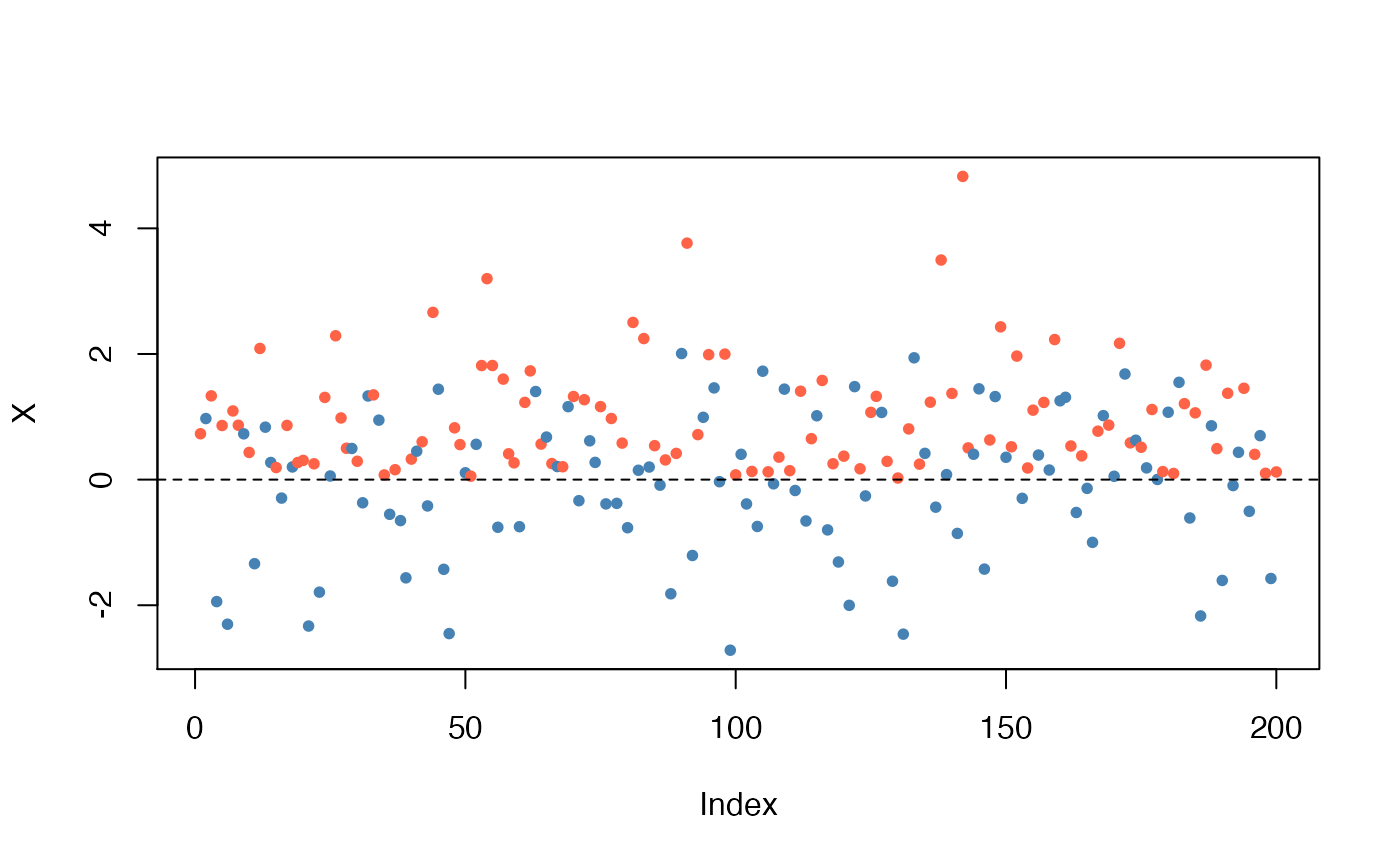
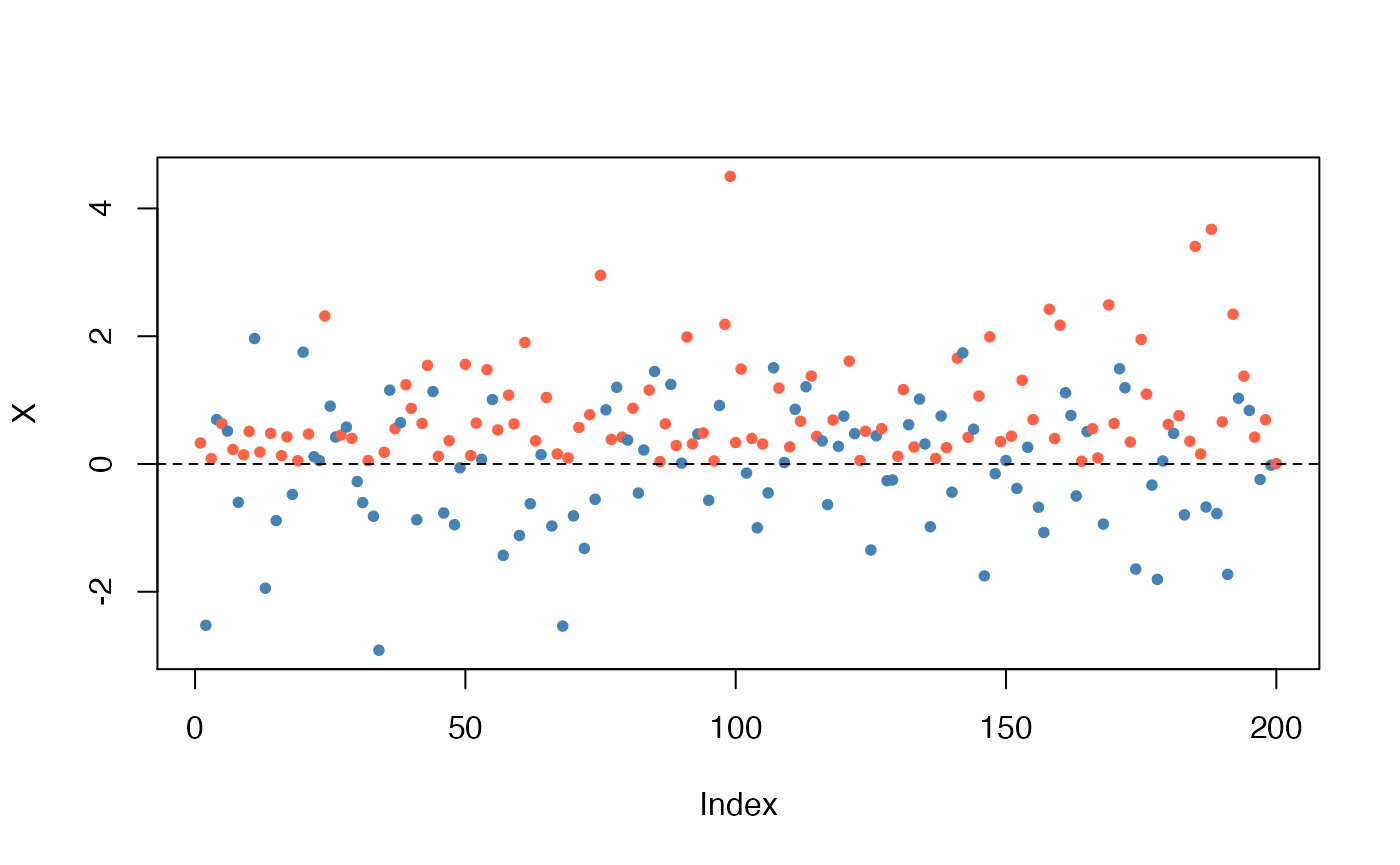
Page changes

diff --git a/docs/reference/residuals.hmm.html b/docs/reference/residuals.hmm.html
@@ -397,7 +397,7 @@ Otherwise, the empirical mean will be used as the expected value.</p>
 <span class="r-out co"><span class="r-pr">#&gt;</span> </span>
 <span class="r-out co"><span class="r-pr">#&gt;</span> smlt.h&gt; summary(X.normal)</span>
 <span class="r-out co"><span class="r-pr">#&gt;</span>    Min. 1st Qu.  Median    Mean 3rd Qu.    Max. </span>
-<span class="r-out co"><span class="r-pr">#&gt;</span> -0.9519  4.7495  5.9039  6.6190  9.7595 11.8071 </span>
+<span class="r-out co"><span class="r-pr">#&gt;</span>  -0.960   4.459   5.506   5.833   7.361  11.832 </span>
 <span class="r-out co"><span class="r-pr">#&gt;</span> </span>
 <span class="r-out co"><span class="r-pr">#&gt;</span> smlt.h&gt; plot(X.normal)</span>
 <span class="r-plt img"><img src="residuals.hmm-1.png" alt="" width="700" height="433"></span>
@@ -426,46 +426,46 @@ Otherwise, the empirical mean will be used as the expected value.</p>
 <span class="r-plt img"><img src="residuals.hmm-4.png" alt="" width="700" height="433"></span>
 <span class="r-in"><span class="va">hmm.mixture_X</span> <span class="op">&lt;-</span> <span class="fu"><a href="hmm.html">hmm</a></span><span class="op">(</span><span class="va">X.mixture</span>, Gamma<span class="op">=</span><span class="va">Gamma</span>, delta<span class="op">=</span><span class="va">delta</span>, lls<span class="op">=</span><span class="va">lls</span>, param_lls<span class="op">=</span><span class="va">param</span>, lls_mle<span class="op">=</span><span class="va">lls_mle</span>, rdist<span class="op">=</span><span class="va">rdist</span>, estimate<span class="op">=</span><span class="cn">FALSE</span><span class="op">)</span></span>
 <span class="r-in"><span class="fu"><a href="https://rdrr.io/r/stats/residuals.html" class="external-link">residuals</a></span><span class="op">(</span><span class="va">hmm.mixture_X</span><span class="op">)</span></span>
-<span class="r-out co"><span class="r-pr">#&gt;</span>   [1] -0.586303625  1.381892321 -0.528362566  0.954120027 -0.715706462</span>
-<span class="r-out co"><span class="r-pr">#&gt;</span>   [6]  0.630666410 -0.578973671 -0.444553089  0.141069625  1.362584247</span>
-<span class="r-out co"><span class="r-pr">#&gt;</span>  [11] -0.642571466 -0.671934009  1.082284185 -0.171946079  2.053574187</span>
-<span class="r-out co"><span class="r-pr">#&gt;</span>  [16] -0.857600618 -0.539693460  0.434041016  1.689633455  1.286270286</span>
-<span class="r-out co"><span class="r-pr">#&gt;</span>  [21] -0.802377633  0.817599375 -0.725297112 -0.366758601 -0.870331307</span>
-<span class="r-out co"><span class="r-pr">#&gt;</span>  [26] -1.712884929  0.839822133  0.596451322  0.748774835 -0.501871368</span>
-<span class="r-out co"><span class="r-pr">#&gt;</span>  [31] -0.845813550 -0.242876982  1.490329112 -2.363251361 -0.751689900</span>
-<span class="r-out co"><span class="r-pr">#&gt;</span>  [36]  1.916305662 -0.755635815  1.875876602  1.549998793  1.249400492</span>
-<span class="r-out co"><span class="r-pr">#&gt;</span>  [41] -0.169712025  1.011168202 -0.869966382  0.166967663 -0.563832584</span>
-<span class="r-out co"><span class="r-pr">#&gt;</span>  [46] -1.539321844 -0.742304405 -0.201330092  0.474123808  0.370912209</span>
-<span class="r-out co"><span class="r-pr">#&gt;</span>  [51] -0.859672028  0.979398244  2.711056921 -0.611446072 -0.718935560</span>
-<span class="r-out co"><span class="r-pr">#&gt;</span>  [56] -0.773755590 -0.832788643  0.503607021 -0.525604245 -0.579735003</span>
-<span class="r-out co"><span class="r-pr">#&gt;</span>  [61]  0.039410795 -0.863086851 -2.027884964  0.632376247 -0.209044696</span>
-<span class="r-out co"><span class="r-pr">#&gt;</span>  [66]  0.013862137 -0.137546553 -0.290771978 -0.767945851 -0.420499709</span>
-<span class="r-out co"><span class="r-pr">#&gt;</span>  [71] -0.278219140 -0.434354890  0.271115074  0.844356130  0.121583955</span>
-<span class="r-out co"><span class="r-pr">#&gt;</span>  [76] -0.624831541  1.918369047 -0.795616224  0.740635769  0.186619659</span>
-<span class="r-out co"><span class="r-pr">#&gt;</span>  [81] -0.160876486 -0.184833351  0.915811449 -0.633950084  0.524099947</span>
-<span class="r-out co"><span class="r-pr">#&gt;</span>  [86]  0.398911125  0.740622412  1.952656278 -1.464180346  1.094756714</span>
-<span class="r-out co"><span class="r-pr">#&gt;</span>  [91] -0.391857097 -0.235776479  0.630821846  2.159926695  1.017357887</span>
-<span class="r-out co"><span class="r-pr">#&gt;</span>  [96] -0.541062032 -0.551912098  0.743071967 -0.438624985  0.893266993</span>
-<span class="r-out co"><span class="r-pr">#&gt;</span> [101] -0.233879509 -0.190718627 -0.556899049  0.778116099  0.637962610</span>
-<span class="r-out co"><span class="r-pr">#&gt;</span> [106] -1.611551517 -0.453141536  0.271173806  0.406979994  1.659466630</span>
-<span class="r-out co"><span class="r-pr">#&gt;</span> [111] -0.414077125 -1.088295173  0.086943957 -0.911961105 -0.882680932</span>
-<span class="r-out co"><span class="r-pr">#&gt;</span> [116] -0.657964405 -1.914911509 -0.261101035  0.500127508 -0.534308601</span>
-<span class="r-out co"><span class="r-pr">#&gt;</span> [121]  0.355742918  1.318284060 -0.136844019 -1.106795756  0.872067097</span>
-<span class="r-out co"><span class="r-pr">#&gt;</span> [126]  0.727031322  0.432256236 -0.330257718 -0.007555166  1.306753195</span>
-<span class="r-out co"><span class="r-pr">#&gt;</span> [131] -0.903071082 -0.632333162  0.420125031 -0.406437334 -0.534117199</span>
-<span class="r-out co"><span class="r-pr">#&gt;</span> [136]  0.293614346 -0.400467059  1.010666909 -0.204932540  0.977709328</span>
-<span class="r-out co"><span class="r-pr">#&gt;</span> [141] -0.334782904 -1.602896514  3.397210644 -0.194488916  1.705694718</span>
-<span class="r-out co"><span class="r-pr">#&gt;</span> [146]  0.803813975 -0.765633223 -0.876757460 -0.358716828 -0.570133251</span>
-<span class="r-out co"><span class="r-pr">#&gt;</span> [151]  1.624655757 -0.413947531 -1.308124884 -0.657383861 -0.087779253</span>
-<span class="r-out co"><span class="r-pr">#&gt;</span> [156] -0.858242454  0.547544554 -0.693572293 -0.670865830 -0.200181484</span>
-<span class="r-out co"><span class="r-pr">#&gt;</span> [161]  0.645032009  0.449585887 -0.577784597 -0.660911581  2.037027488</span>
-<span class="r-out co"><span class="r-pr">#&gt;</span> [166]  0.115676569  0.405218349 -0.309371432 -0.429168020 -0.201594048</span>
-<span class="r-out co"><span class="r-pr">#&gt;</span> [171]  0.069767913  0.654736854 -0.787684252 -0.577817542 -0.182020578</span>
-<span class="r-out co"><span class="r-pr">#&gt;</span> [176] -0.124957109  0.230161289  0.676108566 -0.597486484  1.630072382</span>
-<span class="r-out co"><span class="r-pr">#&gt;</span> [181] -0.216540666 -0.882250283 -0.753096203 -0.350625690 -2.739509075</span>
-<span class="r-out co"><span class="r-pr">#&gt;</span> [186]  0.570484278 -0.670718388 -0.791760110 -0.468064010  1.217869351</span>
-<span class="r-out co"><span class="r-pr">#&gt;</span> [191]  0.410165967 -0.441678755 -1.993703162  0.215726248  0.743205079</span>
-<span class="r-out co"><span class="r-pr">#&gt;</span> [196] -0.704197929  1.026243234  0.372500509 -0.659591840 -0.555029922</span>
+<span class="r-out co"><span class="r-pr">#&gt;</span>   [1]  0.239586903 -0.762135118  0.493699274 -0.878100852  0.472719382</span>
+<span class="r-out co"><span class="r-pr">#&gt;</span>   [6] -0.610654204  1.025013309  1.520802678  1.356998052  0.546747195</span>
+<span class="r-out co"><span class="r-pr">#&gt;</span>  [11]  0.796258673 -0.095750909  0.502270118 -0.759288599 -1.107595251</span>
+<span class="r-out co"><span class="r-pr">#&gt;</span>  [16] -0.057985598 -1.637210898  0.945053759  0.366193410  0.993566028</span>
+<span class="r-out co"><span class="r-pr">#&gt;</span>  [21]  0.199218015 -0.401636260  0.033884812  0.053161485 -0.353678902</span>
+<span class="r-out co"><span class="r-pr">#&gt;</span>  [26] -0.212398866 -0.689695288  0.413180197 -2.168921990 -0.658746565</span>
+<span class="r-out co"><span class="r-pr">#&gt;</span>  [31]  0.267170586 -0.852065609 -1.510116598  0.219957484  0.223708607</span>
+<span class="r-out co"><span class="r-pr">#&gt;</span>  [36] -0.142905131 -1.403793041  0.661874590 -1.812099710 -0.378924736</span>
+<span class="r-out co"><span class="r-pr">#&gt;</span>  [41] -0.409326159  0.681576576 -1.185234708  2.674750685 -0.317844337</span>
+<span class="r-out co"><span class="r-pr">#&gt;</span>  [46]  1.016143996 -2.058611071 -0.562560590  0.699475998 -0.891725650</span>
+<span class="r-out co"><span class="r-pr">#&gt;</span>  [51] -0.423108670  1.092413668  0.399800589 -0.978284810 -0.886881371</span>
+<span class="r-out co"><span class="r-pr">#&gt;</span>  [56]  1.157122177 -0.527287056  1.594174194  0.788720268  0.856100788</span>
+<span class="r-out co"><span class="r-pr">#&gt;</span>  [61]  0.432119926 -0.194228166 -0.669601788 -0.536075760  0.335111941</span>
+<span class="r-out co"><span class="r-pr">#&gt;</span>  [66] -0.425593830  0.379140377 -0.371309914 -0.481977721 -0.154445661</span>
+<span class="r-out co"><span class="r-pr">#&gt;</span>  [71]  1.460042069 -0.363517019 -0.811238361 -0.454629357 -0.328813662</span>
+<span class="r-out co"><span class="r-pr">#&gt;</span>  [76] -1.032512282 -0.439984093 -1.013724753  1.576429679  0.248669886</span>
+<span class="r-out co"><span class="r-pr">#&gt;</span>  [81]  2.240869434  1.436220666 -0.543383689 -0.811109790  0.729239098</span>
+<span class="r-out co"><span class="r-pr">#&gt;</span>  [86] -0.807628876  0.124117724  0.694202879  1.080012978 -0.586462718</span>
+<span class="r-out co"><span class="r-pr">#&gt;</span>  [91] -0.086826010 -0.792627474  1.924827946 -0.605122575  0.490281130</span>
+<span class="r-out co"><span class="r-pr">#&gt;</span>  [96] -0.314130470  0.204980503 -0.649536811 -0.162544663 -0.883540177</span>
+<span class="r-out co"><span class="r-pr">#&gt;</span> [101]  0.685096162 -0.852507814 -0.624822830 -0.004616093  0.578354122</span>
+<span class="r-out co"><span class="r-pr">#&gt;</span> [106]  0.542246502 -0.338159435  0.030962571 -0.809870984 -0.911476837</span>
+<span class="r-out co"><span class="r-pr">#&gt;</span> [111]  1.948960072 -0.312594648  1.323804031 -0.389814127 -0.585783902</span>
+<span class="r-out co"><span class="r-pr">#&gt;</span> [116] -0.514874867  0.486869753 -0.601804286 -0.398689879  0.484468012</span>
+<span class="r-out co"><span class="r-pr">#&gt;</span> [121] -0.372290111 -0.446401336 -1.481592538  0.905226174 -0.865944901</span>
+<span class="r-out co"><span class="r-pr">#&gt;</span> [126] -0.002737624 -0.717452003 -0.652736880 -0.196327784 -0.169161030</span>
+<span class="r-out co"><span class="r-pr">#&gt;</span> [131] -0.442772839  0.647274667  0.279100252  2.219165668  0.912732973</span>
+<span class="r-out co"><span class="r-pr">#&gt;</span> [136]  0.418671248 -0.767412240 -0.821977716  0.609395486  0.980974516</span>
+<span class="r-out co"><span class="r-pr">#&gt;</span> [141] -0.691245722 -0.804602816 -0.324960202  0.812111507  1.146189134</span>
+<span class="r-out co"><span class="r-pr">#&gt;</span> [146]  0.798140808 -0.488895326  0.529379881 -0.867614743  0.696606788</span>
+<span class="r-out co"><span class="r-pr">#&gt;</span> [151]  0.736912330 -0.518466241 -0.815499295  1.266580746 -1.176031250</span>
+<span class="r-out co"><span class="r-pr">#&gt;</span> [156] -0.730809517  0.975733203 -0.694364885  0.814518464 -0.099647116</span>
+<span class="r-out co"><span class="r-pr">#&gt;</span> [161] -0.384613889  0.662822451  0.839302709  1.198701746 -0.694181878</span>
+<span class="r-out co"><span class="r-pr">#&gt;</span> [166] -0.026143165 -0.355265581 -0.569908634 -0.757042980 -0.167224618</span>
+<span class="r-out co"><span class="r-pr">#&gt;</span> [171] -1.304129455  0.576566501 -0.002487028  0.209575313  0.632040303</span>
+<span class="r-out co"><span class="r-pr">#&gt;</span> [176]  0.774915565 -0.838158723 -0.159022336 -0.260055091  0.947820970</span>
+<span class="r-out co"><span class="r-pr">#&gt;</span> [181] -0.381344503  1.004470057  0.648679956 -0.231258650  0.671897234</span>
+<span class="r-out co"><span class="r-pr">#&gt;</span> [186] -1.073839088  0.301732319  0.531961342 -0.664943644  1.852274674</span>
+<span class="r-out co"><span class="r-pr">#&gt;</span> [191] -0.541730178  0.125233537  3.425416988 -0.823552180 -0.290883441</span>
+<span class="r-out co"><span class="r-pr">#&gt;</span> [196] -0.776124084 -0.541233692 -0.718452394 -0.643207401  0.073400151</span>
 </code></pre></div>
     </div>
   </div>

diff --git a/docs/reference/print.summary.hmm.html b/docs/reference/print.summary.hmm.html
@@ -398,7 +398,7 @@ If fitted, it also provides model fitness statistics in the form of log-likeliho
 <span class="r-out co"><span class="r-pr">#&gt;</span> </span>
 <span class="r-out co"><span class="r-pr">#&gt;</span> smlt.h&gt; summary(X.normal)</span>
 <span class="r-out co"><span class="r-pr">#&gt;</span>    Min. 1st Qu.  Median    Mean 3rd Qu.    Max. </span>
-<span class="r-out co"><span class="r-pr">#&gt;</span>  -3.729   4.439   5.632   6.307   9.236  11.585 </span>
+<span class="r-out co"><span class="r-pr">#&gt;</span>  -2.242   3.987   5.242   5.536   9.520  11.608 </span>
 <span class="r-out co"><span class="r-pr">#&gt;</span> </span>
 <span class="r-out co"><span class="r-pr">#&gt;</span> smlt.h&gt; plot(X.normal)</span>
 <span class="r-plt img"><img src="print.summary.hmm-1.png" alt="" width="700" height="433"></span>
@@ -430,7 +430,7 @@ If fitted, it also provides model fitness statistics in the form of log-likeliho
 <span class="r-out co"><span class="r-pr">#&gt;</span> Hidden Markov Model with 2 states.</span>
 <span class="r-out co"><span class="r-pr">#&gt;</span> Residuals:</span>
 <span class="r-out co"><span class="r-pr">#&gt;</span>         0%        25%        50%        75%       100% </span>
-<span class="r-out co"><span class="r-pr">#&gt;</span> -2.3035286 -0.7190312 -0.1150280  0.5991890  2.3379933 </span>
+<span class="r-out co"><span class="r-pr">#&gt;</span> -2.6170623 -0.6366160 -0.2094514  0.5682300  3.6944183 </span>
 <span class="r-out co"><span class="r-pr">#&gt;</span> </span>
 <span class="r-out co"><span class="r-pr">#&gt;</span> Initial distribution of Markov chain is:</span>
 <span class="r-out co"><span class="r-pr">#&gt;</span> [1] 0.5 0.5</span>
@@ -445,7 +445,7 @@ If fitted, it also provides model fitness statistics in the form of log-likeliho
 <span class="r-out co"><span class="r-pr">#&gt;</span> 1        0        1</span>
 <span class="r-out co"><span class="r-pr">#&gt;</span> 2        1         </span>
 <span class="r-out co"><span class="r-pr">#&gt;</span> </span>
-<span class="r-out co"><span class="r-pr">#&gt;</span> The log-likelihood of the model is -275.9846 and the AIC and BIC are 563.9693 and 583.7592 respectively.</span>
+<span class="r-out co"><span class="r-pr">#&gt;</span> The log-likelihood of the model is -279.1013 and the AIC and BIC are 570.2026 and 589.9925 respectively.</span>
 </code></pre></div>
     </div>
   </div>

diff --git a/docs/reference/summary.hmm.html b/docs/reference/summary.hmm.html
@@ -400,7 +400,7 @@ If fitted, it also provides model fitness statistics in the form of log-likeliho
 <span class="r-out co"><span class="r-pr">#&gt;</span> </span>
 <span class="r-out co"><span class="r-pr">#&gt;</span> smlt.h&gt; summary(X.normal)</span>
 <span class="r-out co"><span class="r-pr">#&gt;</span>    Min. 1st Qu.  Median    Mean 3rd Qu.    Max. </span>
-<span class="r-out co"><span class="r-pr">#&gt;</span>  -1.268   4.875   5.592   6.515   9.412  12.134 </span>
+<span class="r-out co"><span class="r-pr">#&gt;</span>  -1.867   4.556   5.463   6.414  10.023  11.937 </span>
 <span class="r-out co"><span class="r-pr">#&gt;</span> </span>
 <span class="r-out co"><span class="r-pr">#&gt;</span> smlt.h&gt; plot(X.normal)</span>
 <span class="r-plt img"><img src="summary.hmm-1.png" alt="" width="700" height="433"></span>
@@ -432,7 +432,7 @@ If fitted, it also provides model fitness statistics in the form of log-likeliho
 <span class="r-out co"><span class="r-pr">#&gt;</span> Hidden Markov Model with 2 states.</span>
 <span class="r-out co"><span class="r-pr">#&gt;</span> Residuals:</span>
 <span class="r-out co"><span class="r-pr">#&gt;</span>         0%        25%        50%        75%       100% </span>
-<span class="r-out co"><span class="r-pr">#&gt;</span> -2.6650323 -0.6780788 -0.1719432  0.5633520  5.0276045 </span>
+<span class="r-out co"><span class="r-pr">#&gt;</span> -2.6311792 -0.5803626 -0.1602909  0.4963180  3.9034720 </span>
 <span class="r-out co"><span class="r-pr">#&gt;</span> </span>
 <span class="r-out co"><span class="r-pr">#&gt;</span> Initial distribution of Markov chain is:</span>
 <span class="r-out co"><span class="r-pr">#&gt;</span> [1] 0.5 0.5</span>
@@ -447,7 +447,7 @@ If fitted, it also provides model fitness statistics in the form of log-likeliho
 <span class="r-out co"><span class="r-pr">#&gt;</span> 1        0        1</span>
 <span class="r-out co"><span class="r-pr">#&gt;</span> 2        1         </span>
 <span class="r-out co"><span class="r-pr">#&gt;</span> </span>
-<span class="r-out co"><span class="r-pr">#&gt;</span> The log-likelihood of the model is -276.3109 and the AIC and BIC are 564.6219 and 584.4118 respectively.</span>
+<span class="r-out co"><span class="r-pr">#&gt;</span> The log-likelihood of the model is -269.5626 and the AIC and BIC are 551.1251 and 570.915 respectively.</span>
 </code></pre></div>
     </div>
   </div>

diff --git a/docs/articles/hmm.html b/docs/articles/hmm.html
@@ -348,23 +348,23 @@
 <span class="co">#&gt; Hidden Markov Model with 2 states.</span>
 <span class="co">#&gt; Residuals:</span>
 <span class="co">#&gt;         0%        25%        50%        75%       100% </span>
-<span class="co">#&gt; -2.6203298 -0.6626160 -0.2009744  0.6254711  3.8974737 </span>
+<span class="co">#&gt; -2.9325681 -0.5946432 -0.2437927  0.5659771  3.7752822 </span>
 <span class="co">#&gt; </span>
 <span class="co">#&gt; Initial distribution of Markov chain is:</span>
 <span class="co">#&gt; [1] 0 1</span>
 <span class="co">#&gt; </span>
 <span class="co">#&gt; Transition probability matrix of Markov chain is:</span>
 <span class="co">#&gt;           1         2</span>
-<span class="co">#&gt; 1 0.1418773 0.8581227</span>
-<span class="co">#&gt; 2 0.7813681 0.2186319</span>
+<span class="co">#&gt; 1 0.2178368 0.7821632</span>
+<span class="co">#&gt; 2 0.7750314 0.2249686</span>
 <span class="co">#&gt; </span>
 <span class="co">#&gt; Emission distribution family is custom with parameters:</span>
-<span class="co">#&gt;      Param. 1 Param. 2</span>
-<span class="co">#&gt; 1 -0.04345303 1.209197</span>
-<span class="co">#&gt; 2  1.07501331         </span>
+<span class="co">#&gt;     Param. 1 Param. 2</span>
+<span class="co">#&gt; 1 0.01063034 1.093135</span>
+<span class="co">#&gt; 2 1.28915574         </span>
 <span class="co">#&gt; </span>
-<span class="co">#&gt; Model was fitted using the EM-algorithm in 43 steps.</span>
-<span class="co">#&gt; The log-likelihood of the model is -287.8248 and the AIC and BIC are 587.6496 and 607.4396 respectively.</span>
+<span class="co">#&gt; Model was fitted using the EM-algorithm in 36 steps.</span>
+<span class="co">#&gt; The log-likelihood of the model is -263.7385 and the AIC and BIC are 539.4769 and 559.2668 respectively.</span>
 <span class="fu"><a href="https://rdrr.io/r/graphics/plot.default.html" class="external-link">plot</a></span><span class="op">(</span><span class="va">hmm.mixture.fitted</span><span class="op">)</span></code></pre></div>
 <p><img src="hmm_files/figure-html/unnamed-chunk-9-2.png" width="700"><img src="hmm_files/figure-html/unnamed-chunk-9-3.png" width="700"><img src="hmm_files/figure-html/unnamed-chunk-9-4.png" width="700"><img src="hmm_files/figure-html/unnamed-chunk-9-5.png" width="700"></p>
 </div>

diff --git a/docs/reference/simulate.hmm.html b/docs/reference/simulate.hmm.html
@@ -224,7 +224,7 @@ In either case, if <code>include_state</code> is <code>TRUE</code>, each simulat
 <span class="r-in"><span class="va">X.normal</span> <span class="op">&lt;-</span> <span class="fu"><a href="https://rdrr.io/r/stats/simulate.html" class="external-link">simulate</a></span><span class="op">(</span><span class="va">hmm.normal</span>, nsim<span class="op">=</span><span class="fl">100</span><span class="op">)</span></span>
 <span class="r-in"><span class="fu"><a href="https://rdrr.io/r/base/summary.html" class="external-link">summary</a></span><span class="op">(</span><span class="va">X.normal</span><span class="op">)</span></span>
 <span class="r-out co"><span class="r-pr">#&gt;</span>    Min. 1st Qu.  Median    Mean 3rd Qu.    Max. </span>
-<span class="r-out co"><span class="r-pr">#&gt;</span>  -1.009   4.582   6.003   6.999  10.015  12.412 </span>
+<span class="r-out co"><span class="r-pr">#&gt;</span> -0.8943  5.0313  6.5041  6.7880  9.5205 12.1166 </span>
 <span class="r-in"><span class="fu"><a href="https://rdrr.io/r/graphics/plot.default.html" class="external-link">plot</a></span><span class="op">(</span><span class="va">X.normal</span><span class="op">)</span></span>
 <span class="r-plt img"><img src="simulate.hmm-1.png" alt="" width="700" height="433"></span>
 <span class="r-in"><span class="fu"><a href="https://rdrr.io/r/graphics/hist.html" class="external-link">hist</a></span><span class="op">(</span><span class="va">X.normal</span><span class="op">)</span></span>
